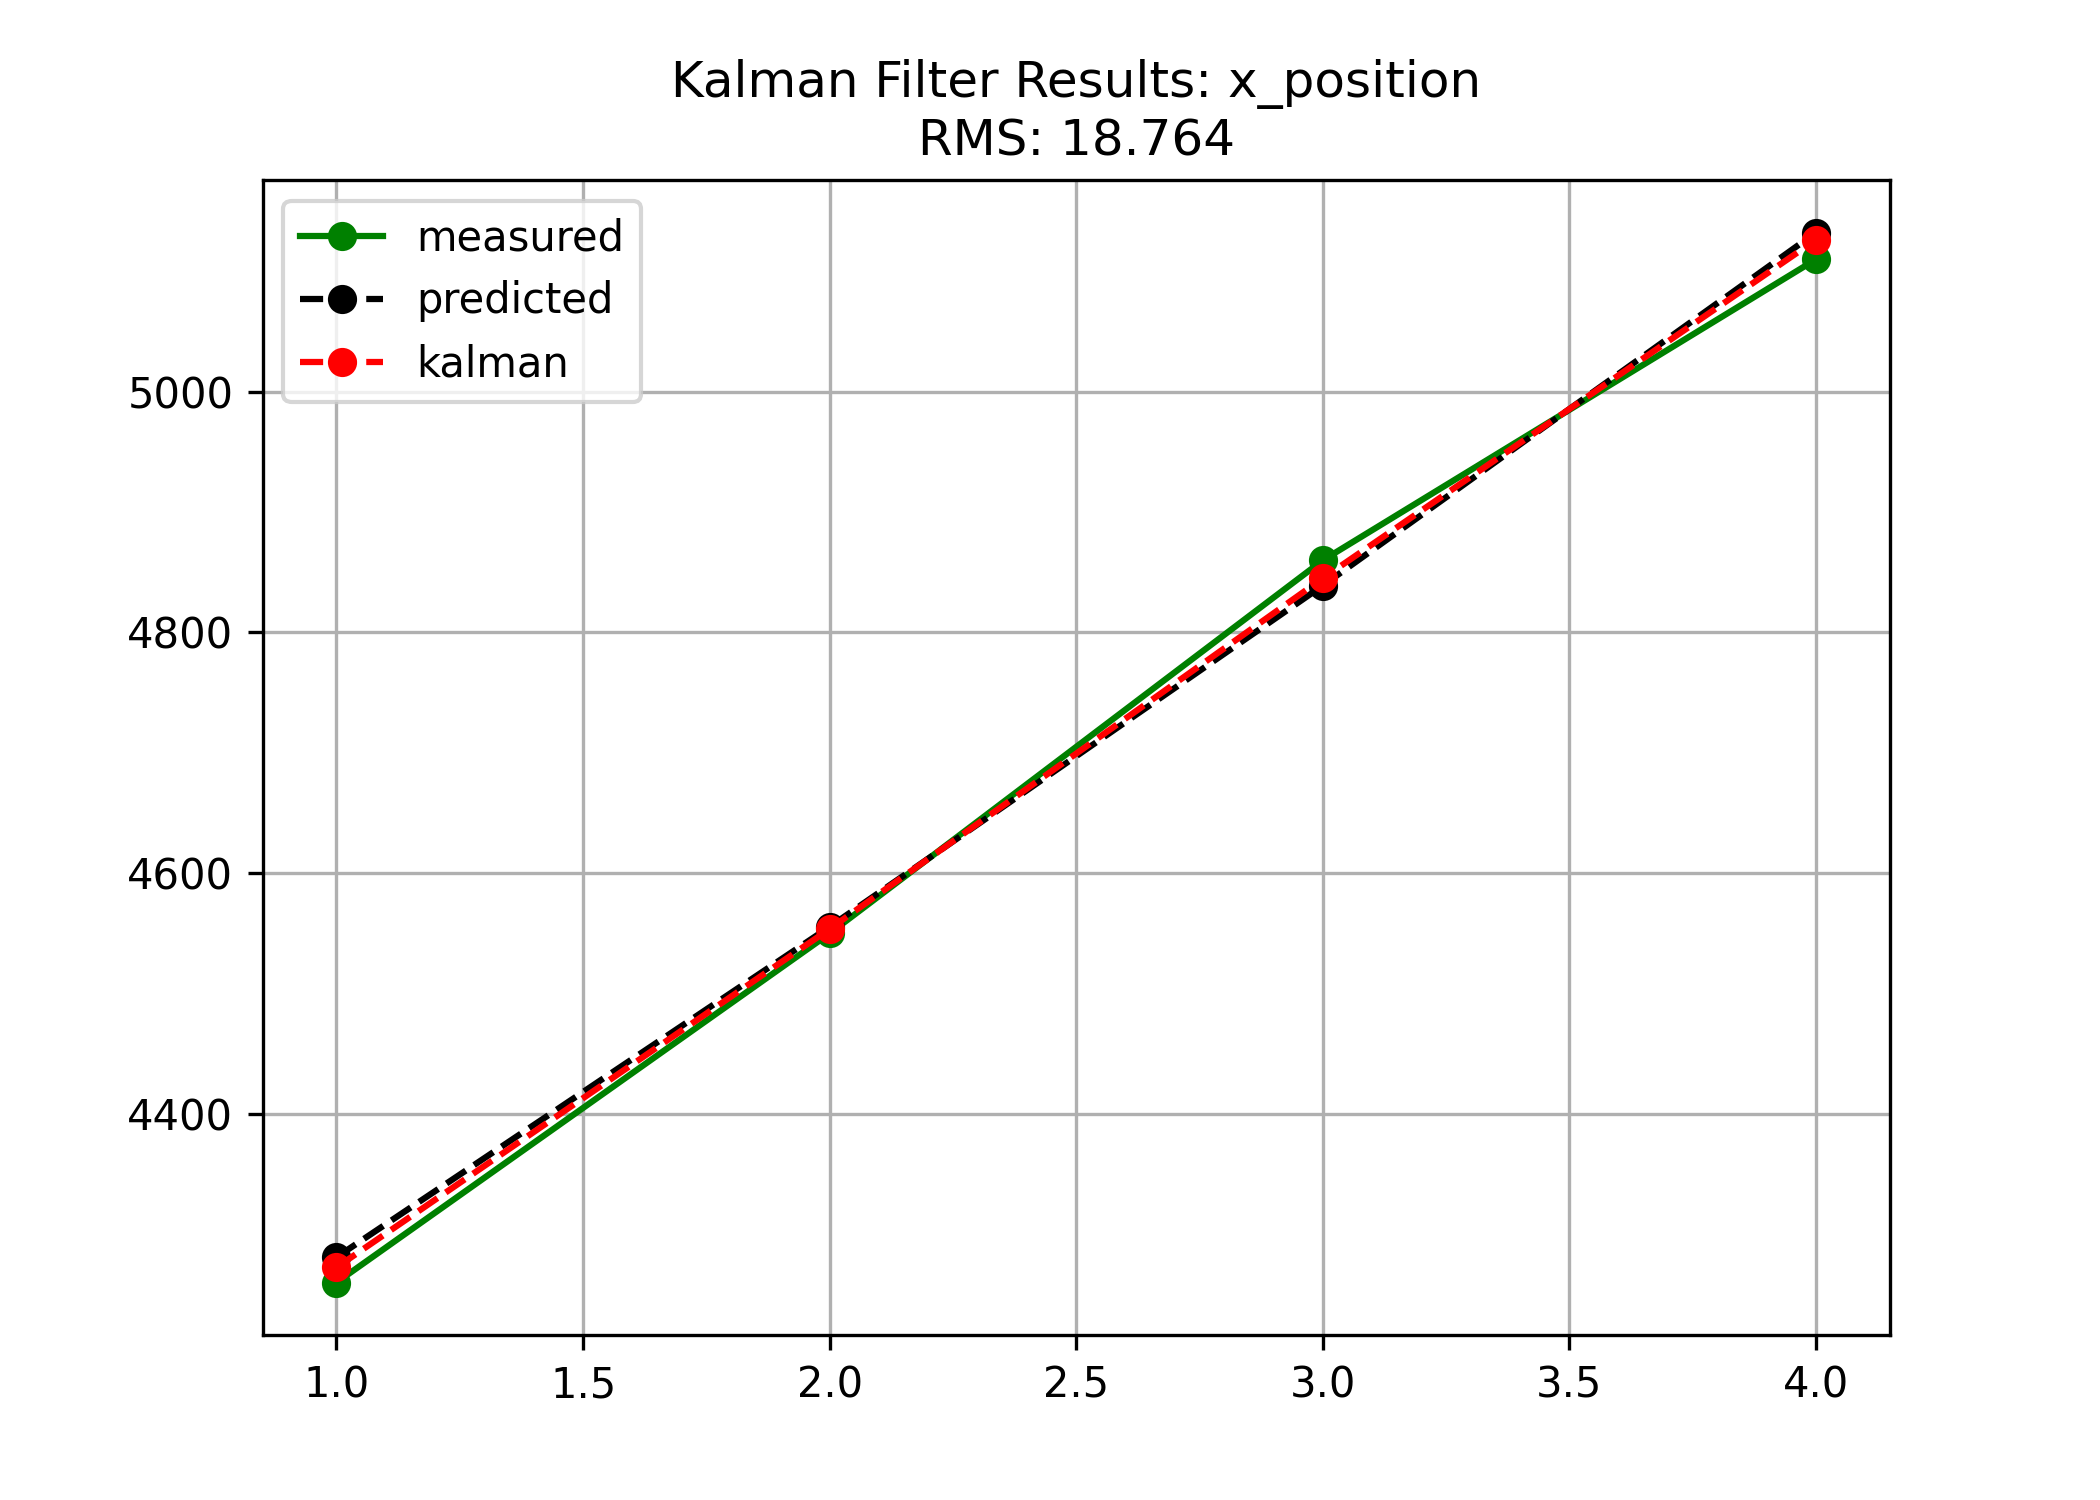
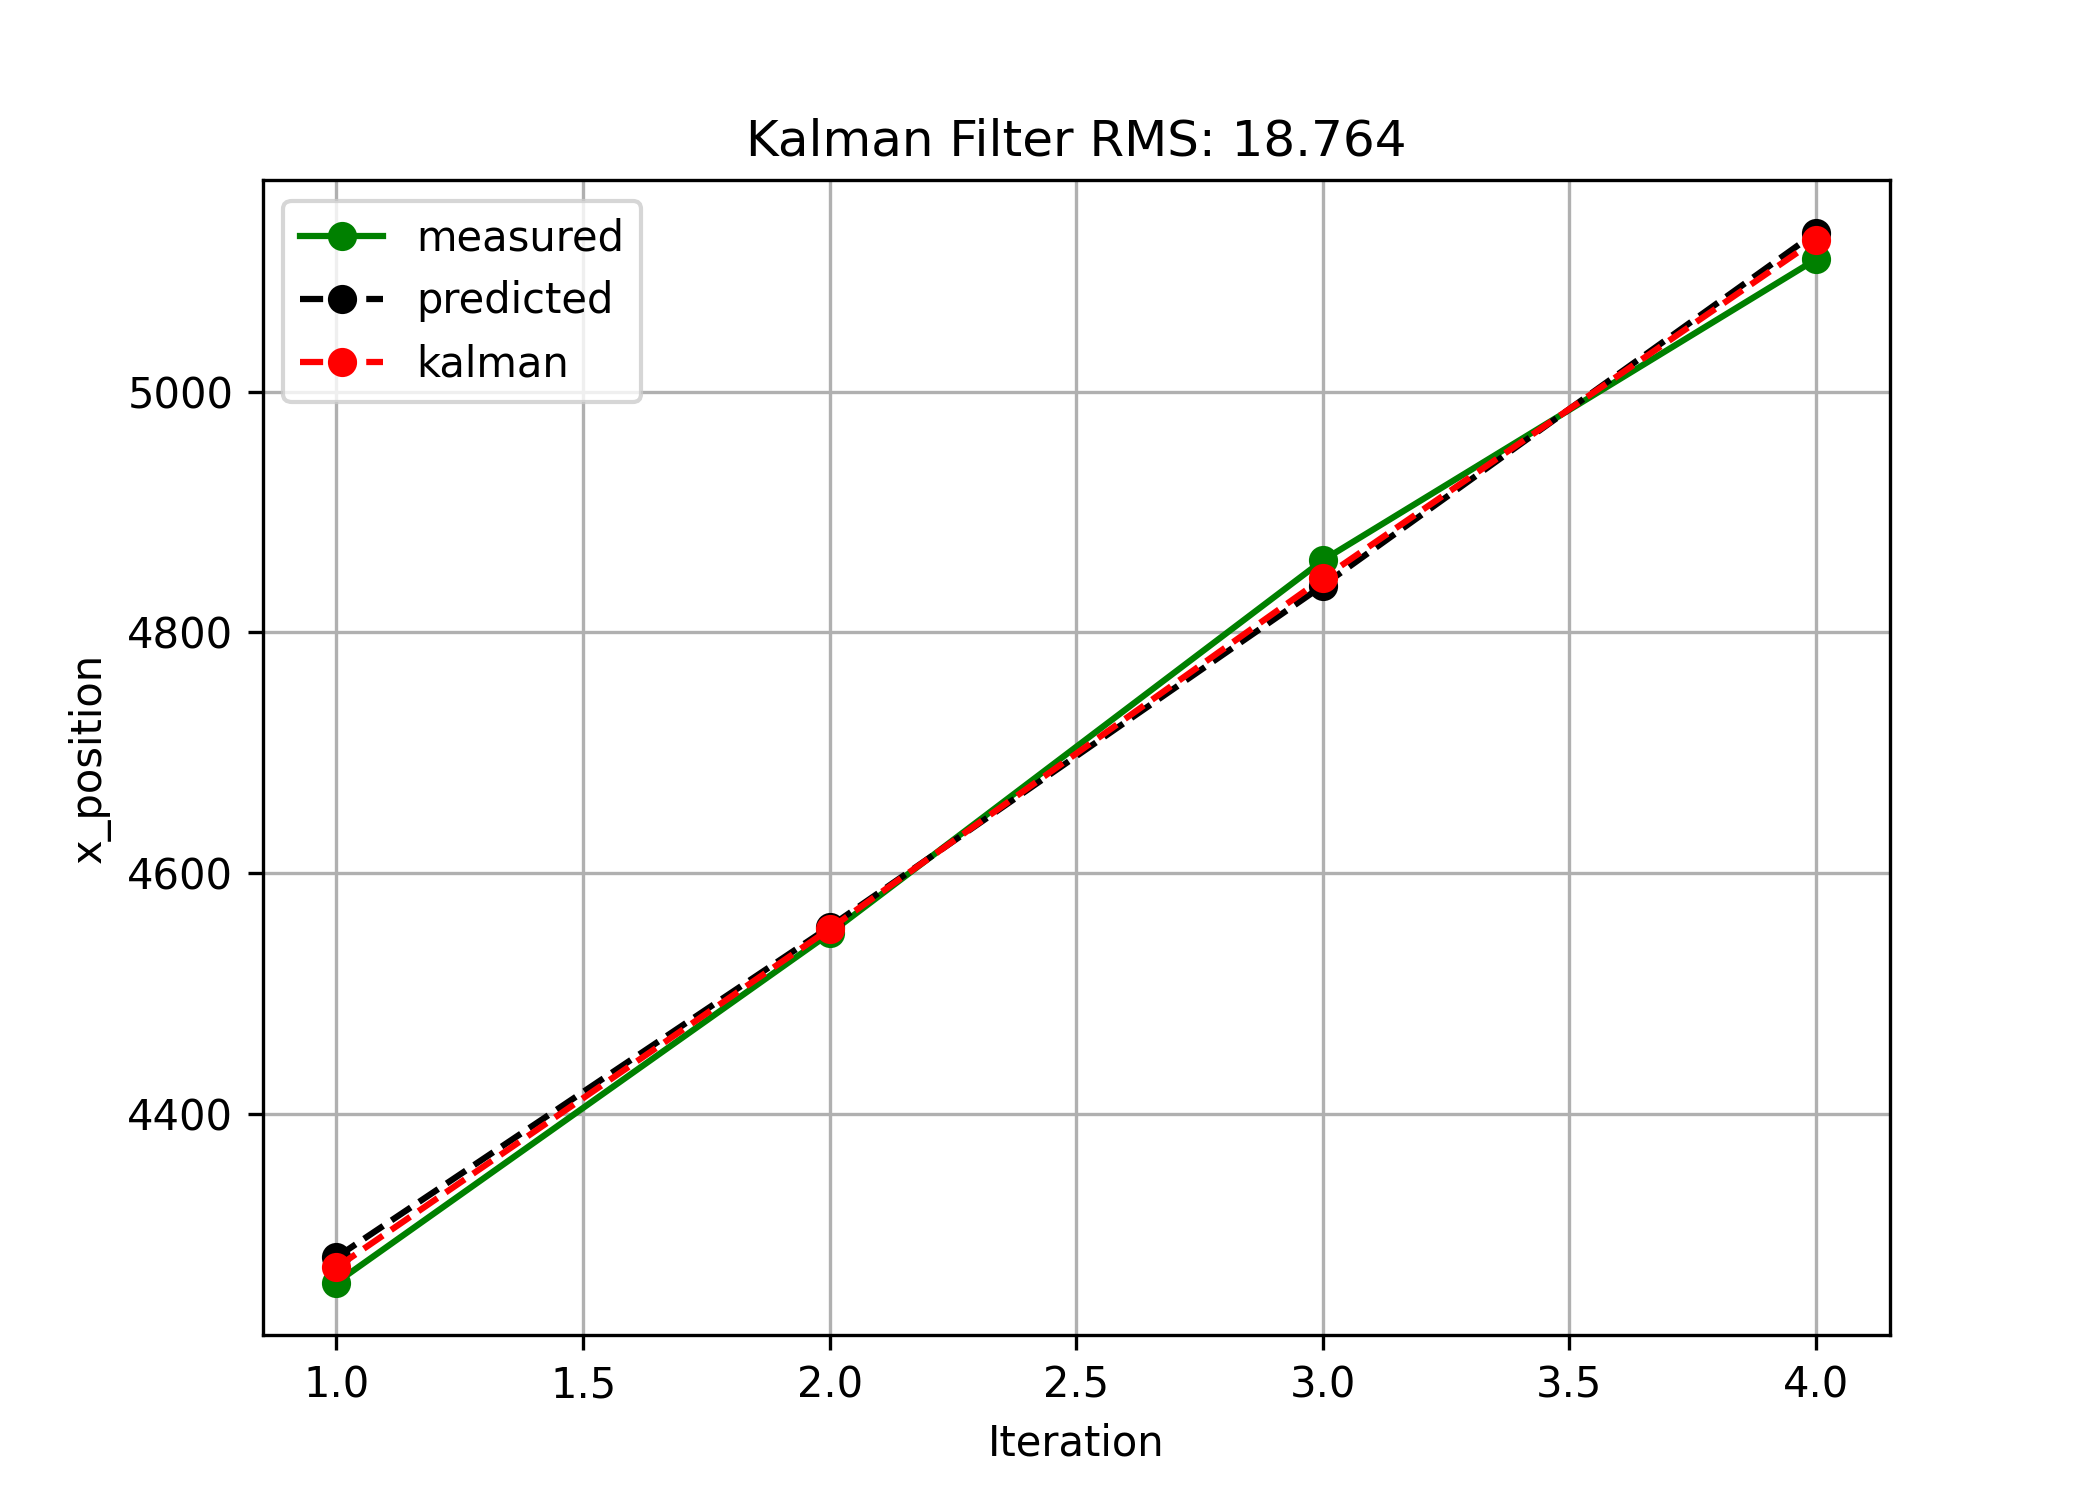
updated kalman filter 1D python files, updated plot formats

Changed region(s): [[0.3095, 0.0307, 0.7119, 0.1227], [0.031, 0.4293, 0.0619, 0.552], [0.4643, 0.9507, 0.5571, 0.9813]]

diff --git a/kf1d/kalman1d.py b/kf1d/kalman1d.py
@@ -5,11 +5,14 @@ from kalman_filter import *
 class Kalman1D(KalmanFilter):
 
 
-    def __init__(self):
+    def __init__(self, literal=False):
 
         # child inherits all methods/props from parent
         # do not need name of parent element, automatically inherit meths/props from parent
         super().__init__()
+
+        #  display messages
+        self.literal = literal
 
         #  log all measured data
         keys = ['time', 'x_pos', 'x_vel']
@@ -156,14 +159,12 @@ class Kalman1D(KalmanFilter):
         #  predict next state
         A, B, u = self.set_state_matrices()
         x_curr_pred = self.predict_next_state(A, self.x_prev, B, u)
-        print('\nX_CURR_PRED:')
-        print(x_curr_pred)
+        if self.literal: print(f'\nX_CURR_PRED:\n{x_curr_pred}')
 
 
         #  predict process Covariance Matrix
         P_pred = self.predict_process_covariance(A, self.P_prev)
-        print('\nP_PRED:')
-        print(P_pred)
+        if self.literal: print(f'\nP_PRED:\n{P_pred}')
 
 
 
@@ -172,8 +173,7 @@ class Kalman1D(KalmanFilter):
         #  measured data
         C, z = self.set_measured_input_matrices()
         Y = self.get_measured_input(C, self.current_state, z)
-        print('\nY:')
-        print(Y)
+        if self.literal: print(f'\nY:\n{Y}')
 
 
 
@@ -190,20 +190,17 @@ class Kalman1D(KalmanFilter):
 
         #  sensor noise covariance matrix
         R = self.set_sensor_noise_covariance_matrix(observation_error_matrix)
-        print('\nR:')
-        print(R)
+        if self.literal: print(f'\nR:\n{R}')
 
 
         #  adaptation matrix
         H = self.set_H(self.P_prev)
-        print('\nH:')
-        print(H)
+        if self.literal: print(f'\nH:\n{H}')
 
 
         #  calculate kalman gain
         K = self.get_kalman_gain(P_pred, H, R)
-        print('\nK:')
-        print(K)
+        if self.literal: print(f'\nK:\n{K}')
 
 
 
@@ -211,15 +208,13 @@ class Kalman1D(KalmanFilter):
 
         #  get next iteration state
         x_corrected = self.get_corrected_state(x_curr_pred, K, Y, H)
-        print('\nX_CORRECTED_STATE:')
-        print(x_corrected)
+        if self.literal: print(f'\nX_CORRECTED_STATE:\n{x_corrected}')
 
 
         #  get next iteration process covariance
         I = np.identity(K.shape[0])
         P_corrected = self.get_corrected_process_covariance(I, K, H, P_pred)
-        print('\nP_CORRECTED_STATE:')
-        print(P_corrected)
+        if self.literal: print(f'\nP_CORRECTED_STATE:\n{P_corrected}')
 
 
 

diff --git a/kf1d/main.py b/kf1d/main.py
@@ -8,6 +8,10 @@ from kalman_filter import *
 from plot_kf_results import *
 
 
+#  display messages
+literal = True
+
+
 #  load data from source file
 data_files = ['demo_point_trajectories.xlsx']
 file = data_files[0]
@@ -22,7 +26,7 @@ data_lists = [val for _,val in data_dict.items()]
 
 
 #  init kalman filter
-kf_class = Kalman1D()
+kf_class = Kalman1D(literal)
 
 
 #  initialize kf variables
@@ -36,8 +40,7 @@ for idx, row in enumerate(range(rows)):
 
     #  set iteration index
     kf_class.set_iter(idx)
-    print('\n')
-    print(kf_class.iter)
+    if literal: print('\n---> ITERATION: ', kf_class.iter)
 
 
     #  measure current position data
@@ -70,4 +73,4 @@ for idx, row in enumerate(range(rows)):
 #  plot kalman filter performance results
 plot_kf_class = PlotKF(save_figs=True)
 for dim in kf_class.kf_results.keys():
-    plot_kf_class.plot_results(kf_class.kf_results[dim], kf_dim=dim)
+    if literal: plot_kf_class.plot_results(kf_class.kf_results[dim], kf_dim=dim)

diff --git a/kf1d/plot_kf_results.py b/kf1d/plot_kf_results.py
@@ -51,7 +51,9 @@ class PlotKF:
 
 
         #  format plot
-        self.ax.set_title(f'Kalman Filter Results: {kf_dim}\nRMS: {round(self.rms, 3)}')
+        self.ax.set_title(f'Kalman Filter RMS: {round(self.rms, 3)}')
+        self.ax.set_xlabel('Iteration')
+        self.ax.set_ylabel(f'{kf_dim}')
         self.ax.grid(True)
         self.ax.legend()
 
